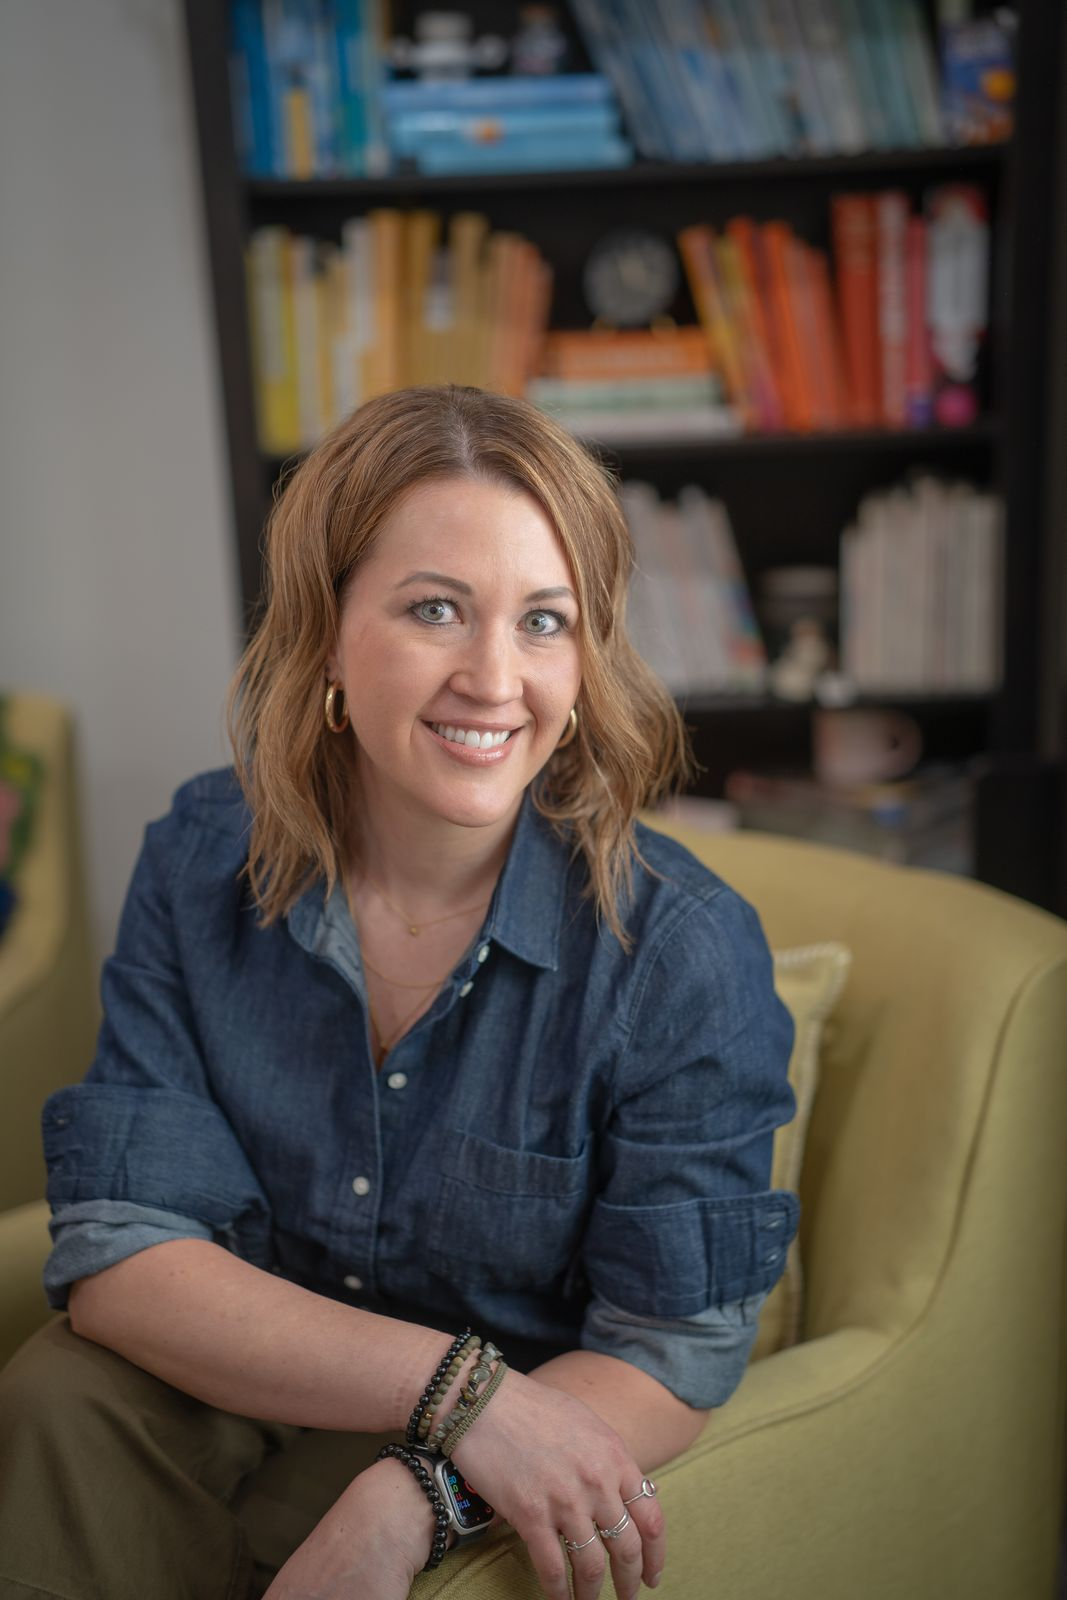
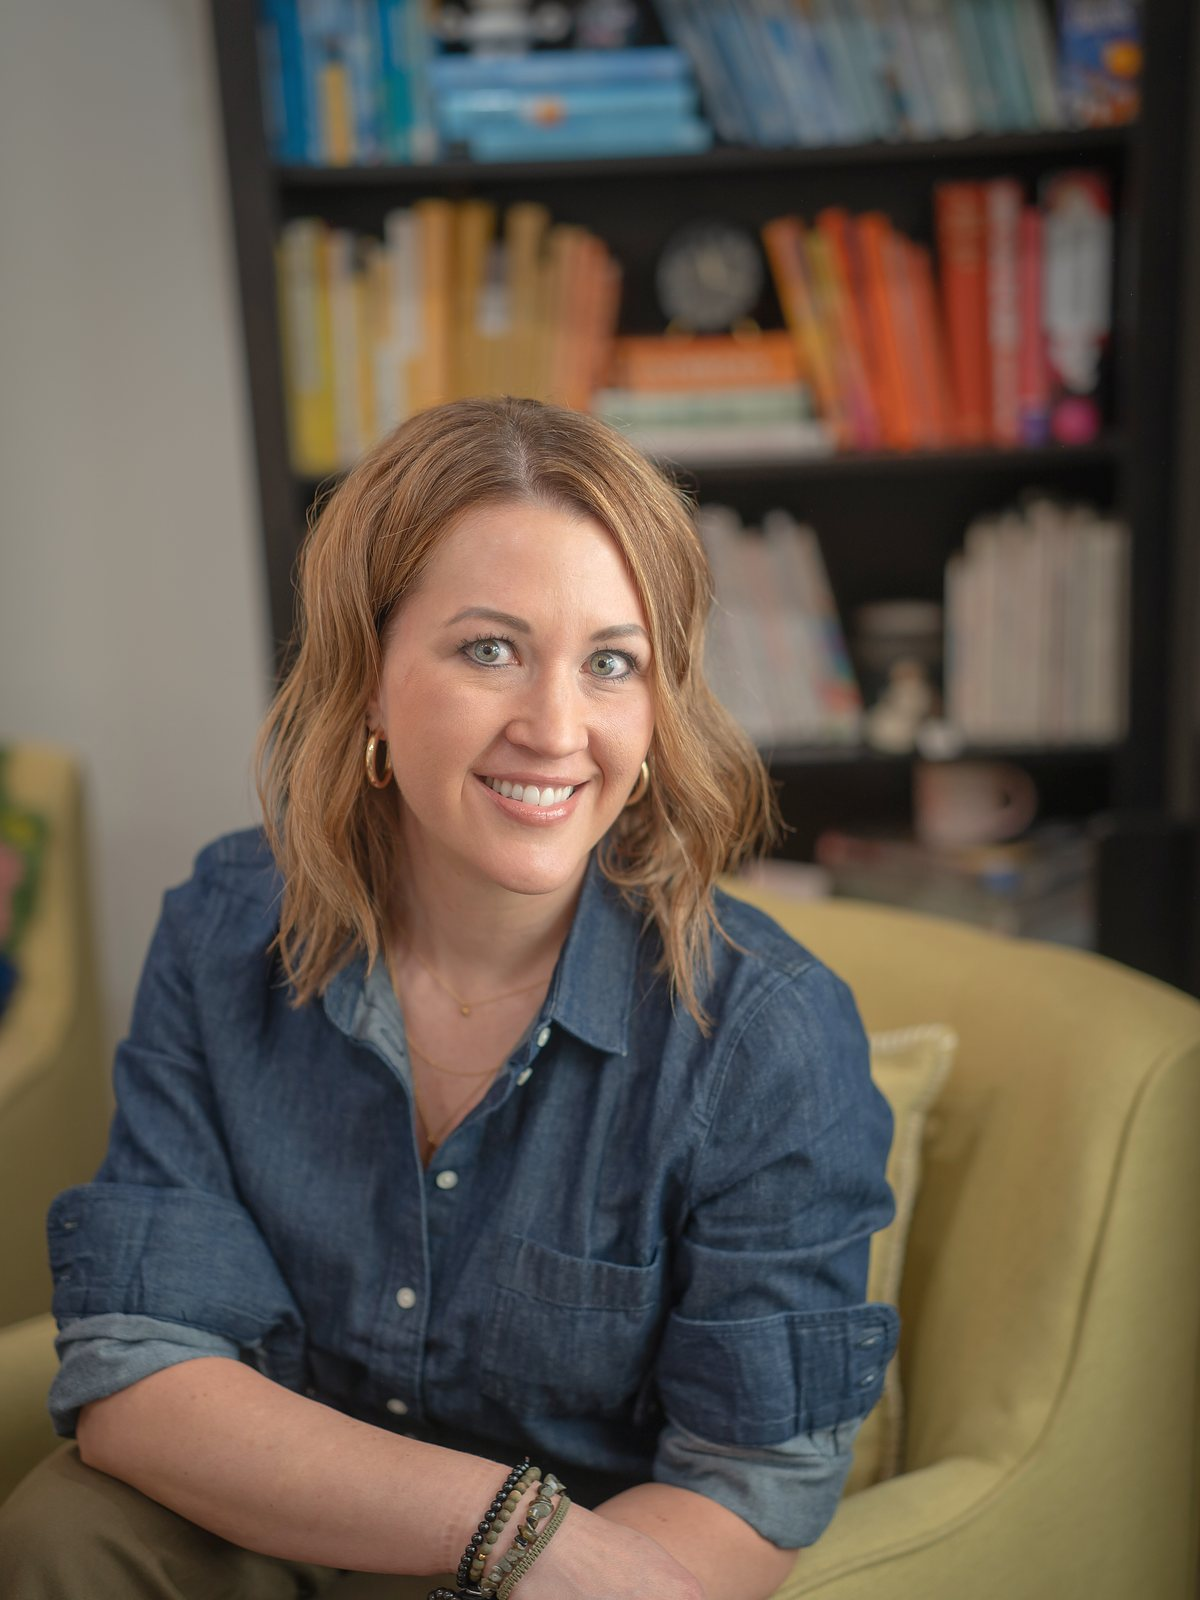
Photo refresh: graded portraits, office photo, Home detail strip
- About: back to the denim/yellow-chair photo (DSC08059), re-graded
- Clinicians: SAV04479, re-graded (SAV04486 is already the Home hero)
- Services: original blazer headshot beside "What it's like in session",
  replacing the couch photo band
- Getting Started: lobby paired with the real therapy-room photo
- Home: hero and reading photo re-graded; new six-panel detail strip
- All edited photos share one exposure/white-balance/finish pass

diff --git a/services.html b/services.html
@@ -50,6 +50,7 @@ page_class: services-page
         <h2 class="section-heading">What it's like<br /><em>in session</em></h2>
         <p class="body-text">You don't have to come in knowing what to say or how to say it. Sessions are conversational by nature; there's no agenda you need to prepare for. I'll follow your lead and help you make sense of what's coming up. No single modality fits everyone. The work is tailored to you, not the other way around.</p>
         <p class="body-text">Most clients start with weekly or bi-weekly sessions. The work moves at a pace that's right for you, not on a fixed timeline.</p>
+        <img src="images/aly-headshot-blazer.jpg" alt="Aly Webster, LCPC, in a navy blazer and blue collared shirt" class="expect-photo" width="1286" height="1800" loading="lazy" />
       </div>
       <div class="expect-detail list-rows">
         <div class="detail-item">
@@ -76,7 +77,3 @@ page_class: services-page
     </div>
   </section>
 
-  <!-- OFFICE PHOTO -->
-  <section class="photo-band">
-    <img src="images/office-couch.jpg" alt="Aly on the couch in her office in Ammon, Idaho" width="2400" height="1600" loading="lazy" />
-  </section>

diff --git a/index.html b/index.html
@@ -103,3 +103,13 @@ page_class: home-page
       </div>
     </div>
   </section>
+
+  <!-- DETAIL STRIP -->
+  <section class="detail-strip">
+    <img src="images/strip-aly.jpg" alt="Aly standing in front of her bookshelves" width="600" height="750" loading="lazy" />
+    <img src="images/strip-blue-books.jpg" alt="Blue books, a small white robot, and a jar of paper stars" width="600" height="750" loading="lazy" />
+    <img src="images/strip-terrarium.jpg" alt="Moss terrarium in a glass jar" width="600" height="750" loading="lazy" />
+    <img src="images/strip-plants.jpg" alt="Plants on the office windowsill" width="600" height="750" loading="lazy" />
+    <img src="images/strip-clock-books.jpg" alt="Orange and yellow books with a black clock" width="600" height="750" loading="lazy" />
+    <img src="images/strip-globe.jpg" alt="Globe, Care Bear, and plant on a stack of atlases" width="600" height="750" loading="lazy" />
+  </section>

diff --git a/contact.html b/contact.html
@@ -19,8 +19,11 @@ page_class: contact-page
 
   <!-- OFFICE PHOTO -->
   <section class="contact-photo">
-    <img src="images/office-waiting-room.jpeg" alt="Atlas Counseling office waiting room" width="1500" height="1125" />
-    <p class="image-caption">Office Waiting Room&nbsp;&nbsp;·&nbsp; Ammon, Idaho</p>
+    <div class="contact-photo-pair">
+      <img src="images/office-waiting-room.jpeg" alt="Atlas Counseling office waiting room" width="1500" height="1125" />
+      <img src="images/office-therapy-room.jpg" alt="Aly's therapy office with a navy couch, two green armchairs, rug, and bookshelves" width="1500" height="1125" />
+    </div>
+    <p class="image-caption">Waiting Room &amp; Therapy Office&nbsp;&nbsp;·&nbsp; Ammon, Idaho</p>
   </section>
 
   <!-- CLIENT PORTAL - most prominent -->

diff --git a/_sass/_base.scss b/_sass/_base.scss
@@ -221,6 +221,12 @@ nav {
   display: grid; grid-template-columns: repeat(4, 1fr); gap: 1rem;
 }
 .b-roll img { width: 100%; aspect-ratio: 1 / 1; object-fit: cover; }
+/* six small equal panels, texture rather than featured photos */
+.detail-strip {
+  padding: 1rem var(--gutter) 5rem;
+  display: grid; grid-template-columns: repeat(6, 1fr); gap: 4px;
+}
+.detail-strip img { width: 100%; aspect-ratio: 4 / 5; object-fit: cover; }
 
 /* ── QUOTE ──────────────────────────────────── */
 .pull-quote {

diff --git a/clinicians.html b/clinicians.html
@@ -44,7 +44,7 @@ page_class: clinicians-page
 
     <!-- SIDEBAR -->
     <div class="sidebar">
-      <img src="images/aly-yellow-chair-smile.jpg" alt="Aly Webster in her office" class="sidebar-photo" width="1067" height="1600" />
+      <img src="images/aly-clinicians.jpg" alt="Aly Webster in a black blazer, seated in a yellow armchair in front of her bookshelves" class="sidebar-photo" width="1200" height="1600" />
       <div class="sidebar-block">
         <p class="sidebar-block-label">Credentials</p>
         <div class="sidebar-cred-list list-rows">

diff --git a/_sass/_style-mobile.scss b/_sass/_style-mobile.scss
@@ -56,6 +56,9 @@
   /* ── PHOTOS ── */
   .book-grid { grid-template-columns: repeat(2, 1fr); }
   .b-roll { grid-template-columns: repeat(2, 1fr); padding-bottom: 4rem; }
+  .detail-strip { grid-template-columns: repeat(3, 1fr); padding-bottom: 4rem; }
+  .contact-photo-pair { grid-template-columns: 1fr; }
+  .contact-photo-pair img { height: auto; aspect-ratio: 4 / 3; }
   .photo-band { padding-top: 3rem; padding-bottom: 3rem; }
   .tools { padding-top: 4rem; padding-bottom: 4rem; }
   .tools-grid { grid-template-columns: 1fr; }

diff --git a/about.html b/about.html
@@ -41,7 +41,7 @@ page_class: about-page
 
   <!-- SIDEBAR -->
   <div class="sidebar">
-    <img src="images/aly-headshot-yellow.jpg" alt="Aly Webster, LCPC, smiling outdoors in a yellow dress" class="sidebar-photo" width="1153" height="1730" />
+    <img src="images/aly-denim.jpg" alt="Aly Webster in a denim shirt, seated in a yellow armchair in her office" class="sidebar-photo" width="1200" height="1600" />
 
     <div class="sidebar-block">
       <p class="sidebar-block-label">Credentials</p>

diff --git a/_sass/_style-contact.scss b/_sass/_style-contact.scss
@@ -3,6 +3,8 @@
 .contact-photo { padding: 3.5rem var(--gutter) 0; }
 .contact-photo img { width: 100%; height: clamp(240px, 32vw, 440px); object-fit: cover; }
 .contact-photo .image-caption { text-align: left; }
+.contact-photo-pair { display: grid; grid-template-columns: 1fr 1fr; gap: 1rem; }
+.contact-photo-pair img { height: clamp(200px, 26vw, 400px); }
 
 /* client portal — the most prominent block on the page */
 .portal-block {

diff --git a/_sass/_style-services.scss b/_sass/_style-services.scss
@@ -9,3 +9,7 @@
   display: grid; grid-template-columns: 1fr 1fr;
   gap: 6rem; align-items: start;
 }
+.expect-photo {
+  width: 100%; max-width: 340px; margin-top: 2.5rem;
+  aspect-ratio: 4 / 5; object-fit: cover; object-position: center 25%;
+}
